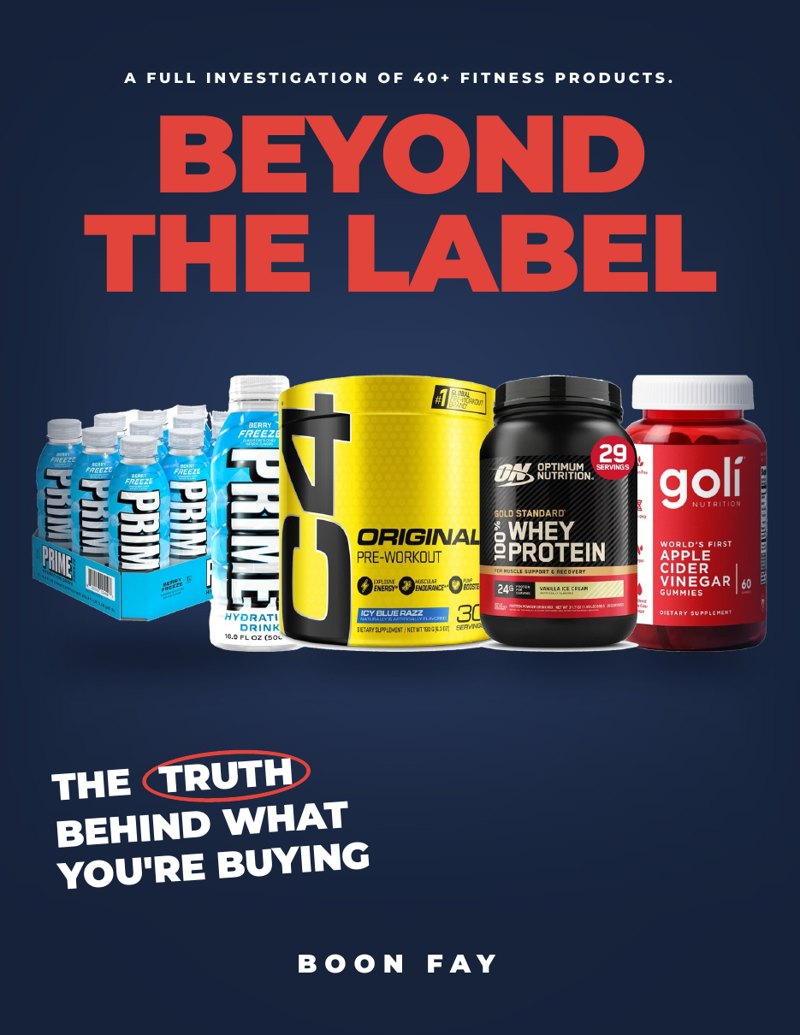
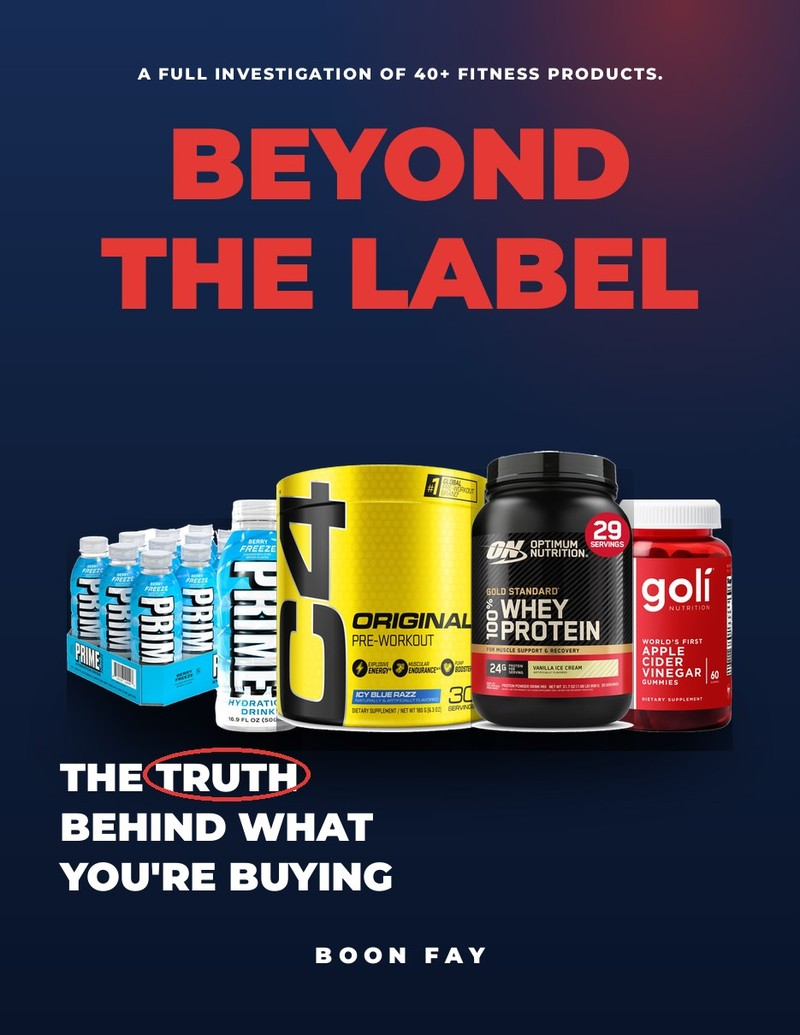
Covers on the app background (navy fade, small red glow); rebuilt Beyond the Label cover
Claude-Session: https://claude.ai/code/session_01Bf86E4ucw6eJutAMhaLVMs

diff --git a/tools/covers4.py b/tools/covers4.py
@@ -1,0 +1,46 @@
+# All app covers on the app's own background (navy fade + small red glow top right).
+import os
+os.chdir('/tmp/claude-0/-home-claude/c8a69b93-862c-5582-89c9-433fef2a90e0/scratchpad')
+T='/home/claude/six-pack-stack-app/tools/'
+src=open(T+'covers3.py').read().split("cover('YOUR FIRST")[0]
+src=src.replace("exec(open('covers2.py').read()","exec(open(T+'covers2.py').read()")
+exec(src)
+from PIL import Image, ImageDraw
+BG=Image.open(T+'cover_bg.png').convert('RGBA')
+def bg(): return BG.copy()
+def fade_to_bg(im,start=860,span=170):
+    m=Image.new('L',(W,H),0); d=ImageDraw.Draw(m)
+    for i in range(span): d.line([(0,start-span+i),(W,start-span+i)],fill=int(255*(i/span)**1.3))
+    d.rectangle((0,start,W,H),fill=255)
+    im.paste(BG,(0,0),m)
+def fade_bottom(im,start=860,span=170): fade_to_bg(im,start,span)
+def app_visual(im,y):
+    a=phone('ts_sc.png',215).rotate(9,expand=True,resample=Image.BICUBIC)
+    b=phone('ts_train.png',245)
+    c=phone('ts_verdict.png',215).rotate(-9,expand=True,resample=Image.BICUBIC)
+    shadowed(im,a,(W//2+40,y+40)); shadowed(im,c,(W//2-40-c.width,y+40)); shadowed(im,b,(W//2-b.width//2,y))
+    fade_to_bg(im)
+def btl_visual(im,y):
+    C='/home/claude/btl2/photos/cut/'
+    items=[('prime.png',330),('c4.png',380),('on.png',400),('goli.png',330)]
+    objs=[]
+    for f,h in items:
+        o=Image.open(C+f).convert('RGBA'); o=o.crop(o.getbbox()); o=o.resize((int(o.width*h/o.height),h),Image.LANCZOS); objs.append(o)
+    base=y+462
+    gl=Image.new('L',(W,H),0); ImageDraw.Draw(gl).ellipse((90,base-50,W-90,base+40),fill=255); gl=gl.filter(ImageFilter.GaussianBlur(40))
+    im.paste((0,0,0,120),(0,0),gl)
+    total=sum(o.width for o in objs)-3*30; k=min(1,(W-140)/total)
+    if k<1: objs=[o.resize((int(o.width*k),int(o.height*k)),Image.LANCZOS) for o in objs]
+    total=sum(o.width for o in objs)-3*30; x=(W-total)//2; xs=[]
+    for o in objs: xs.append(x); x+=o.width-30
+    for i in (0,3,1,2): shadowed(im,objs[i],(xs[i],base-objs[i].height))
+cover('YOUR FIRST 2 WEEKS, FREE.',['THE FREE','STACK'],free_visual,['BUILT FROM','A 2-MINUTE','QUIZ.'],'QUIZ','/home/claude/sps-app/assets/img/cover_free.jpg')
+cover('12 WEEKS OF 1:1 COACHING WITH BOON.',['SIX-PACK','STACK'],coach_visual,['ABS IN 12 WEEKS,','OR I COACH YOU','FREE.'],'FREE','/home/claude/sps-app/assets/img/cover_coaching.jpg')
+cover('THE FREE 60-SECOND STACK AUDIT.',['STACK','SCORE'],label_visual,['CUT.','KEEP.','SWAP.'],'SWAP','/home/claude/sps-app/assets/img/cover_score.jpg')
+cover('ALL 12 WEEKS, IN ONE APP.',['THE FULL','STACK'],app_visual,['STRIP.','STACK.','SIX-PACK.'],'SIX-PACK','/home/claude/sps-app/assets/img/cover_program.jpg')
+cover('A FULL INVESTIGATION OF 40+ FITNESS PRODUCTS.',['BEYOND','THE LABEL'],btl_visual,['THE TRUTH','BEHIND WHAT',"YOU'RE BUYING"],'TRUTH','/home/claude/sps-app/assets/img/btl_cover_new.jpg')
+fs=['cover_free.jpg','cover_score.jpg','btl_cover_new.jpg','cover_program.jpg','cover_coaching.jpg']
+ims=[Image.open('/home/claude/sps-app/assets/img/'+f).resize((W//3,H//3)) for f in fs]
+R=Image.new('RGB',(5*(W//3+8),H//3),'white')
+for i,a in enumerate(ims): R.paste(a,(i*(W//3+8),0))
+R.save('covers4.png')
